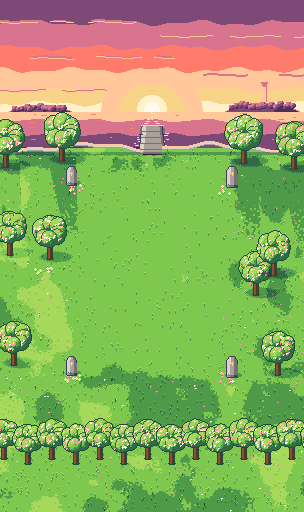
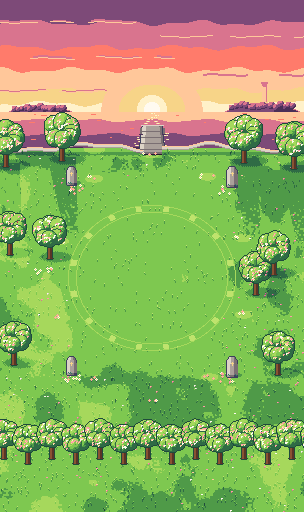
[C] v2.7: jellyfish and lantern wisp shadows fall on the ground; Avalon hill ring and blossom drifts; calmer ice cave tint
Claude-Session: https://claude.ai/code/session_011zCFYQCUMyXvVY6m2szGHz

diff --git a/tools/pixel/art_v27_dusk.py b/tools/pixel/art_v27_dusk.py
@@ -617,6 +617,14 @@ def scene_avalon_hill() -> Scene26:
         AW.sprinkle_flowers(img, (cx - 10, cy - 6, cx + 10, cy + 6), 9, cx * 3 + cy, ["white", "pink", "white"])
     K7.leaf_litter(img, (0, 156, IMG_W, IMG_H), 220, 6607, cols=("pink", "white", "peach", "pink"), calm=0.98)
     K.edge_shadow(img, 152, 3, 0, IMG_W)
+    # the hilltop's faint old circle, and drifts of fallen blossom near its rim
+    W.rune_ring(img, MIDX, MIDY + 6, 84, "spring", "leaf_l", ticks=16, width=1.0)
+    for k in range(10):
+        a = k / 10 * 2 * math.pi + 0.3
+        cx, cy = MIDX + math.cos(a) * 96, MIDY + 6 + math.sin(a) * 124
+        K7.soft_disc(img, cx, cy, 9, 4, "spring", seed=6650 + k, only=("leaf",))
+        AW.sprinkle_flowers(img, (int(cx) - 8, int(cy) - 4, int(cx) + 8, int(cy) + 4), 3, 6660 + k,
+                            ["white", "pink"])
     # old standing stones at four points of the ring
     for (x, y, h) in ((AX0 + 2, AY0 + 6, 18), (AX1 - 14, AY0 + 6, 20), (AX0 + 2, AY1 - 28, 18), (AX1 - 14, AY1 - 28, 20)):
         AW.place(img, K.menhir(h, x, ("stone_d", "stone", "stone_l"), "iron", rune="gold_l"), x, y,

diff --git a/tools/pixel/art_v27_snow.py b/tools/pixel/art_v27_snow.py
@@ -299,7 +299,7 @@ def scene_ice_cave() -> Scene26:
                 spread=180, speed=(1, 3), gravity=(0, 0), blink=True)
     sc.particle(kind="snow", amount=10, lifetime=6.0, rect=(-10, -40, 200, 380), velocity=(0.2, 1), spread=40,
                 speed=(2, 5), gravity=(0, 0), colour_fade=True)
-    sc.modulate = (0.92, 0.96, 1.0)
+    sc.modulate = (0.88, 0.93, 1.0)
     return sc
 
 
